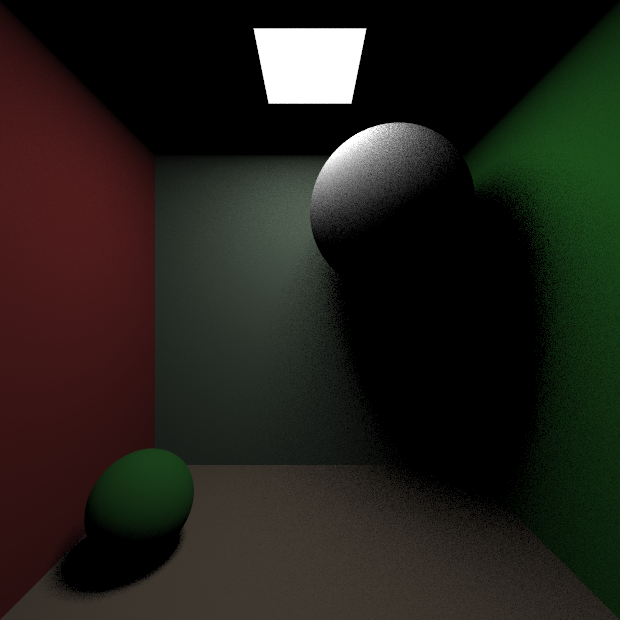
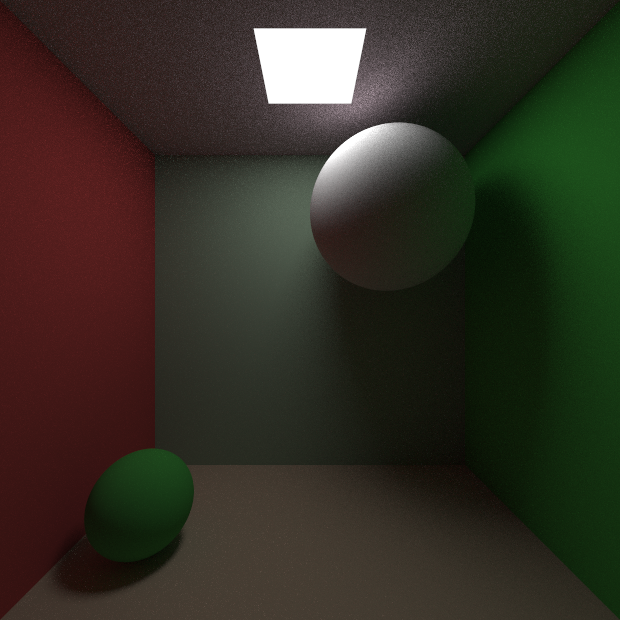
world

Changed region(s): [[0.0, 0.0, 1.0, 0.8581], [0.0919, 0.8274, 0.3065, 0.9806]]

diff --git a/myraytracer/src/world/World.java b/myraytracer/src/world/World.java
@@ -44,8 +44,8 @@ public class World {
 
 	public Camera camera;
 	public Tracer tracer;
-	public static final int MAX_BOUNCES = 10;
-	public static final int SAMPLES_PER_PIXEL = 16;
+	public static final int MAX_BOUNCES = 2;
+	public static final int SAMPLES_PER_PIXEL = 100;
 	public static final int BRANCHING_FACTOR = 1;
 	public static final RGBColor BACKGROUND_COLOR = new RGBColor();
 	public static final int SHOW_BOUNCE = -1;
@@ -80,7 +80,7 @@ public class World {
 		} else
 			panel = null;
 		
-		WorldBuilder.build(WorldBuilder.CORNELL_BOX_AREALIGHT_TRACING, width, height, this);
+		WorldBuilder.build(WorldBuilder.CORNELL_BOX_HYBRID_PATH_TRACING, width, height, this);
 	}
 
 	public void renderScene() {
